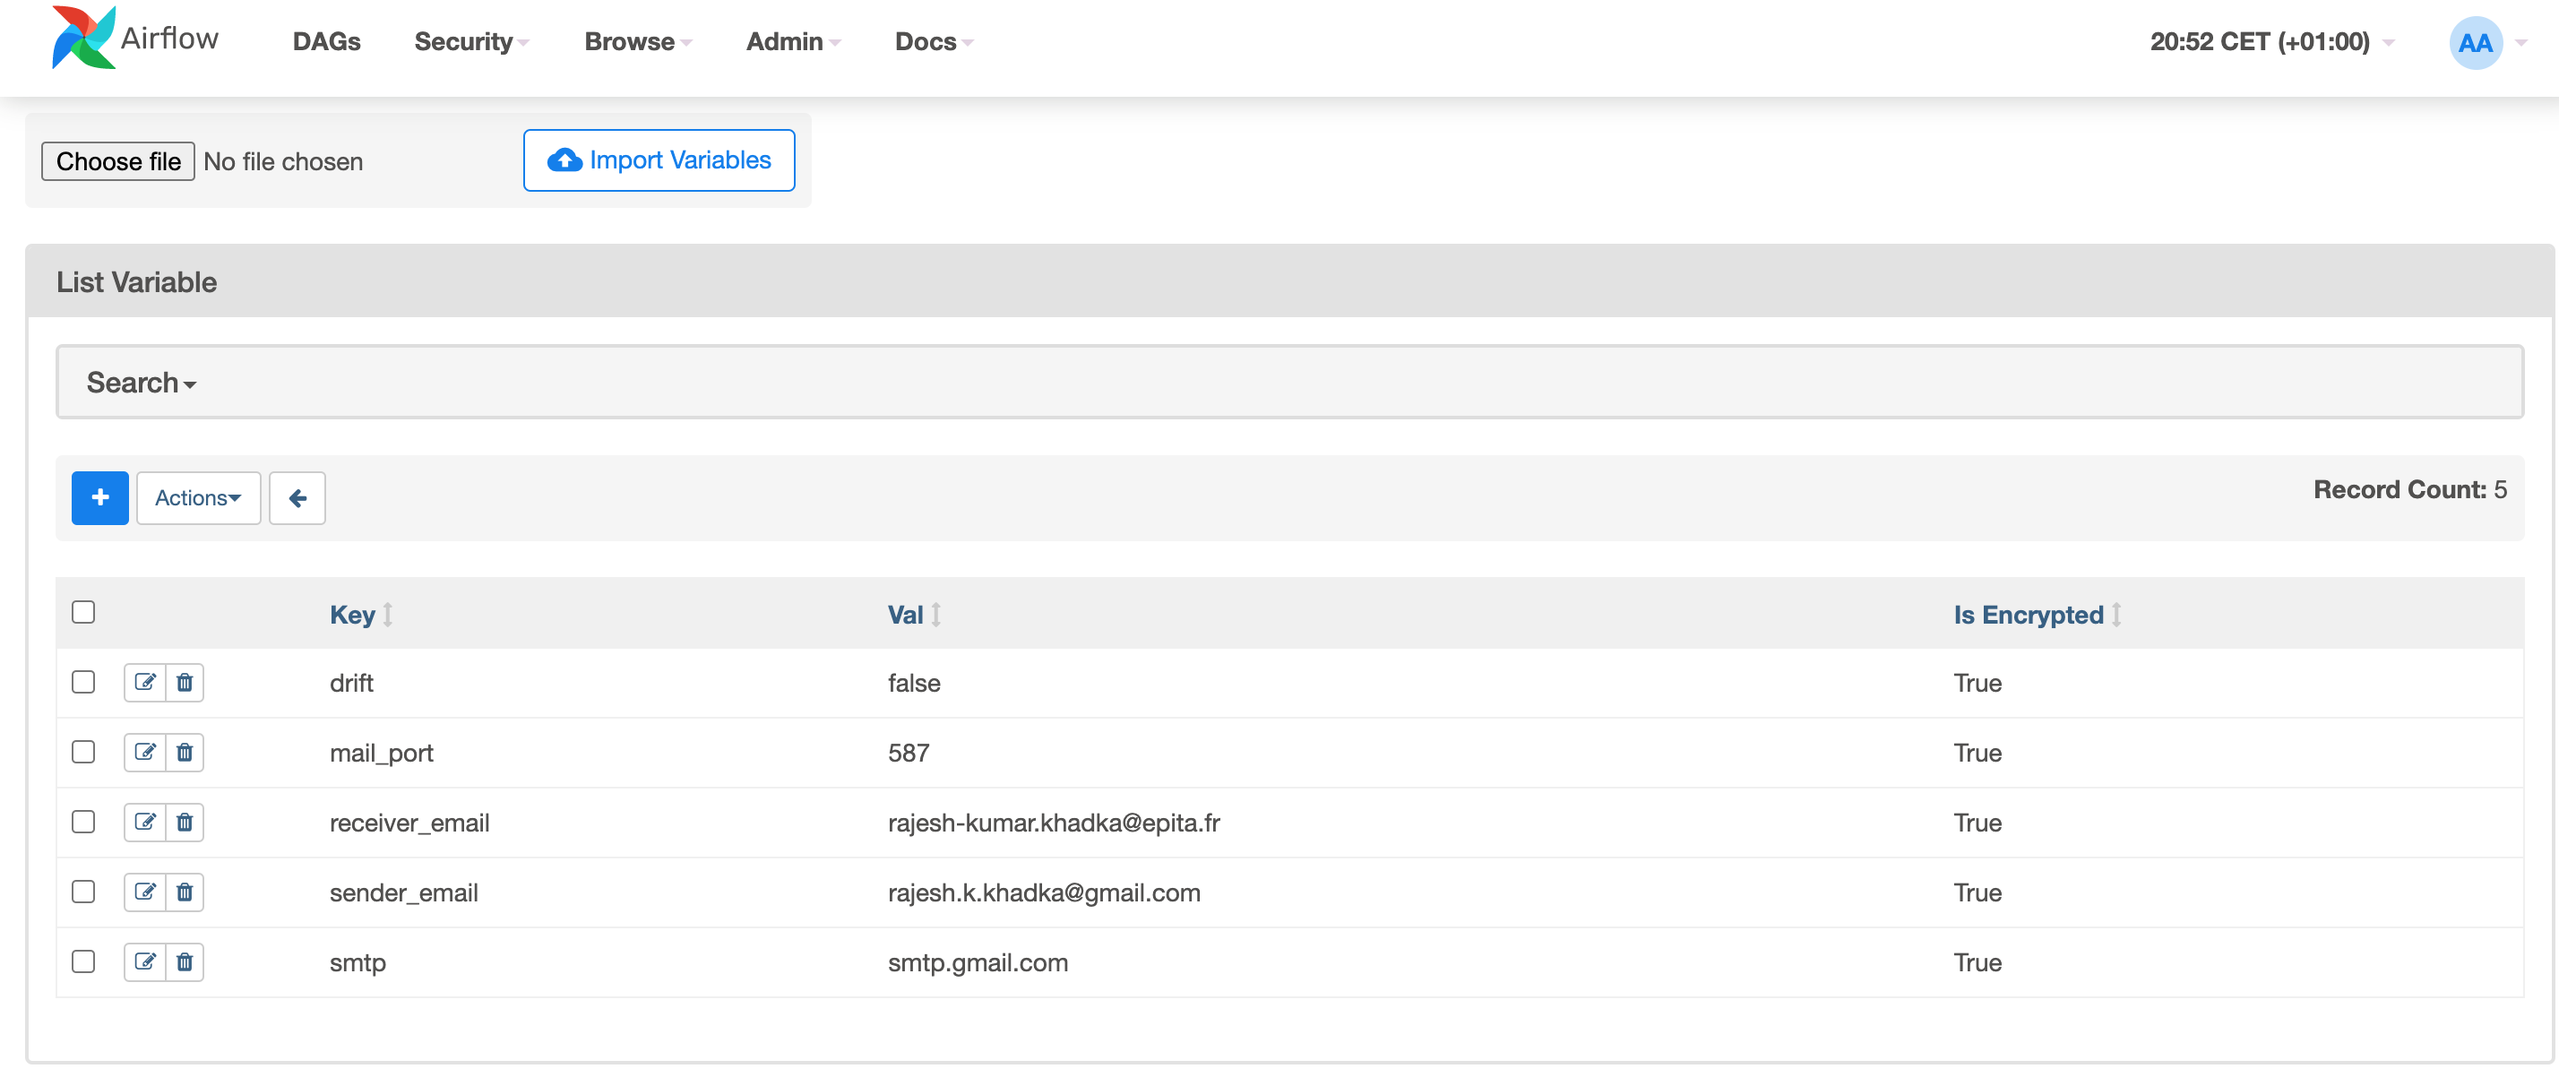
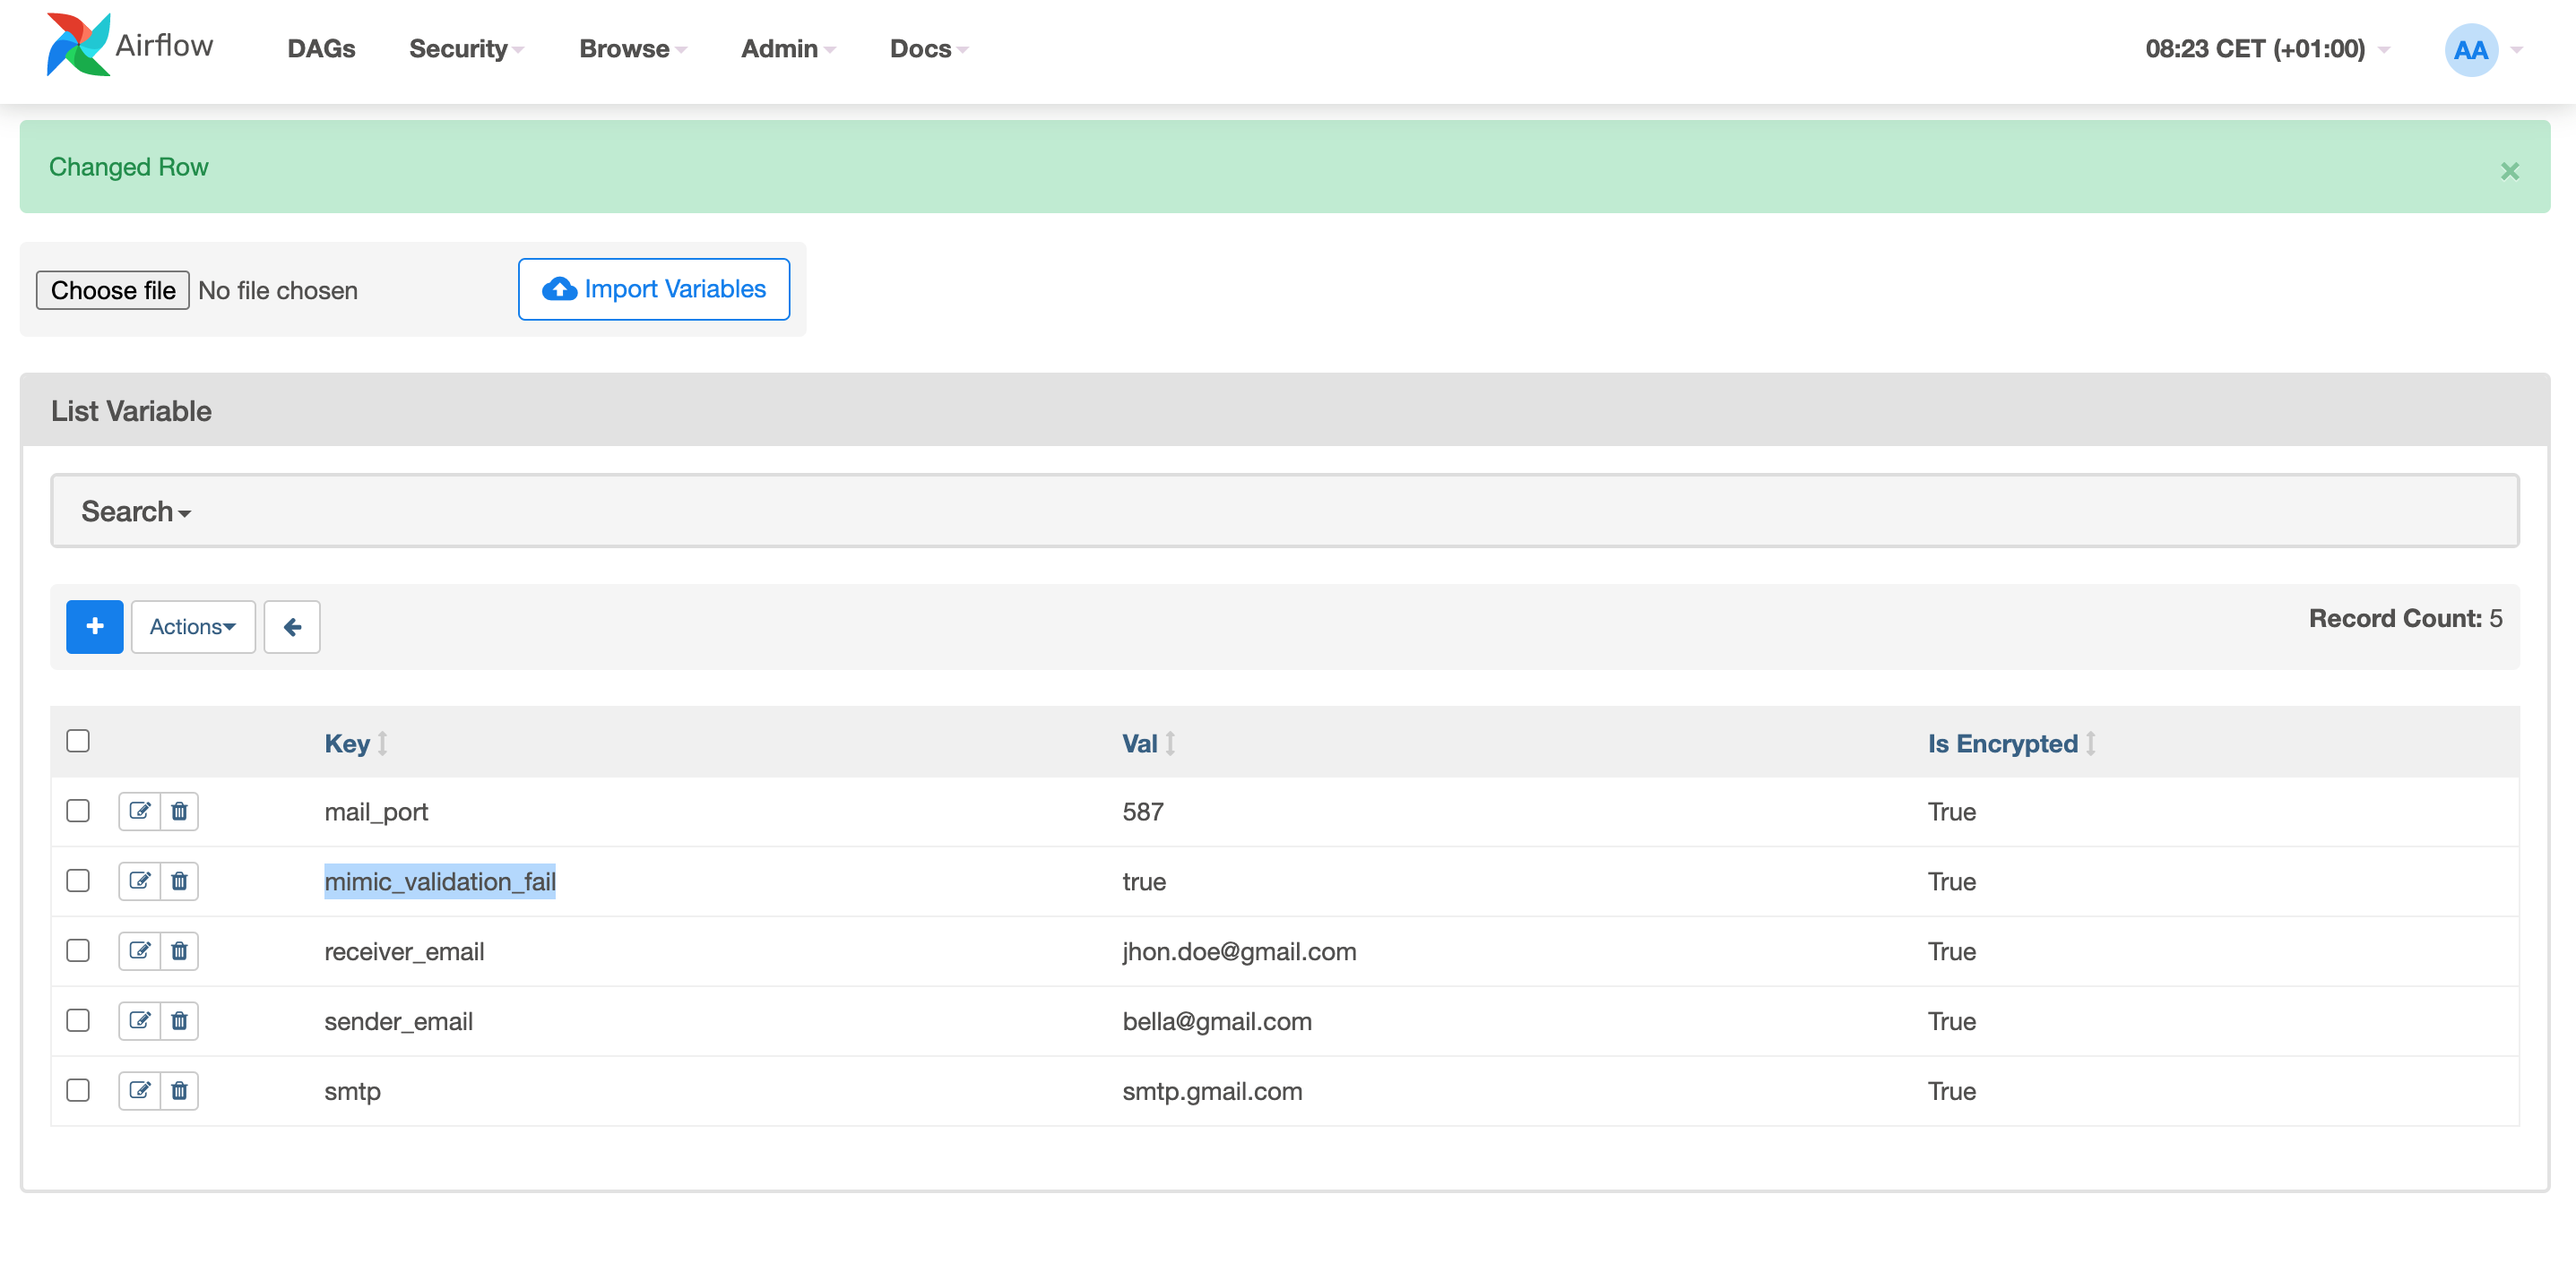
refactor variable name

diff --git a/airflow/dags/ingestion.py b/airflow/dags/ingestion.py
@@ -63,18 +63,18 @@ def ingestion_pipeline():
         dataFrame.to_csv(PRODUCTION_DATA_OUTPUT_FILE, index=False)
         return str(PRODUCTION_DATA_OUTPUT_FILE)
 
-    def is_drift():
-        return Variable.get("drift") == 'true'
+    def is_force_validation_failure():
+        return Variable.get("mimic_validation_fail") == 'true'
 
     def get_max_value():
-        return DRIFT_MAX if is_drift() else MAX
+        return DRIFT_MAX if is_force_validation_failure() else MAX
 
     def get_min_value():
-        return DRIFT_MIN if is_drift() else MIN
+        return DRIFT_MIN if is_force_validation_failure() else MIN
 
     @task()
     def validate(file_name: str):
-        data_frame = pd.read_csv(PRODUCTION_DATA_DRIFT_OUTPUT_FILE if is_drift() else file_name)
+        data_frame = pd.read_csv(PRODUCTION_DATA_DRIFT_OUTPUT_FILE if is_force_validation_failure() else file_name)
         ge_df = ge.from_pandas(data_frame)
 
         ge_df.expect_column_values_to_not_be_null(column="fixed acidity")
